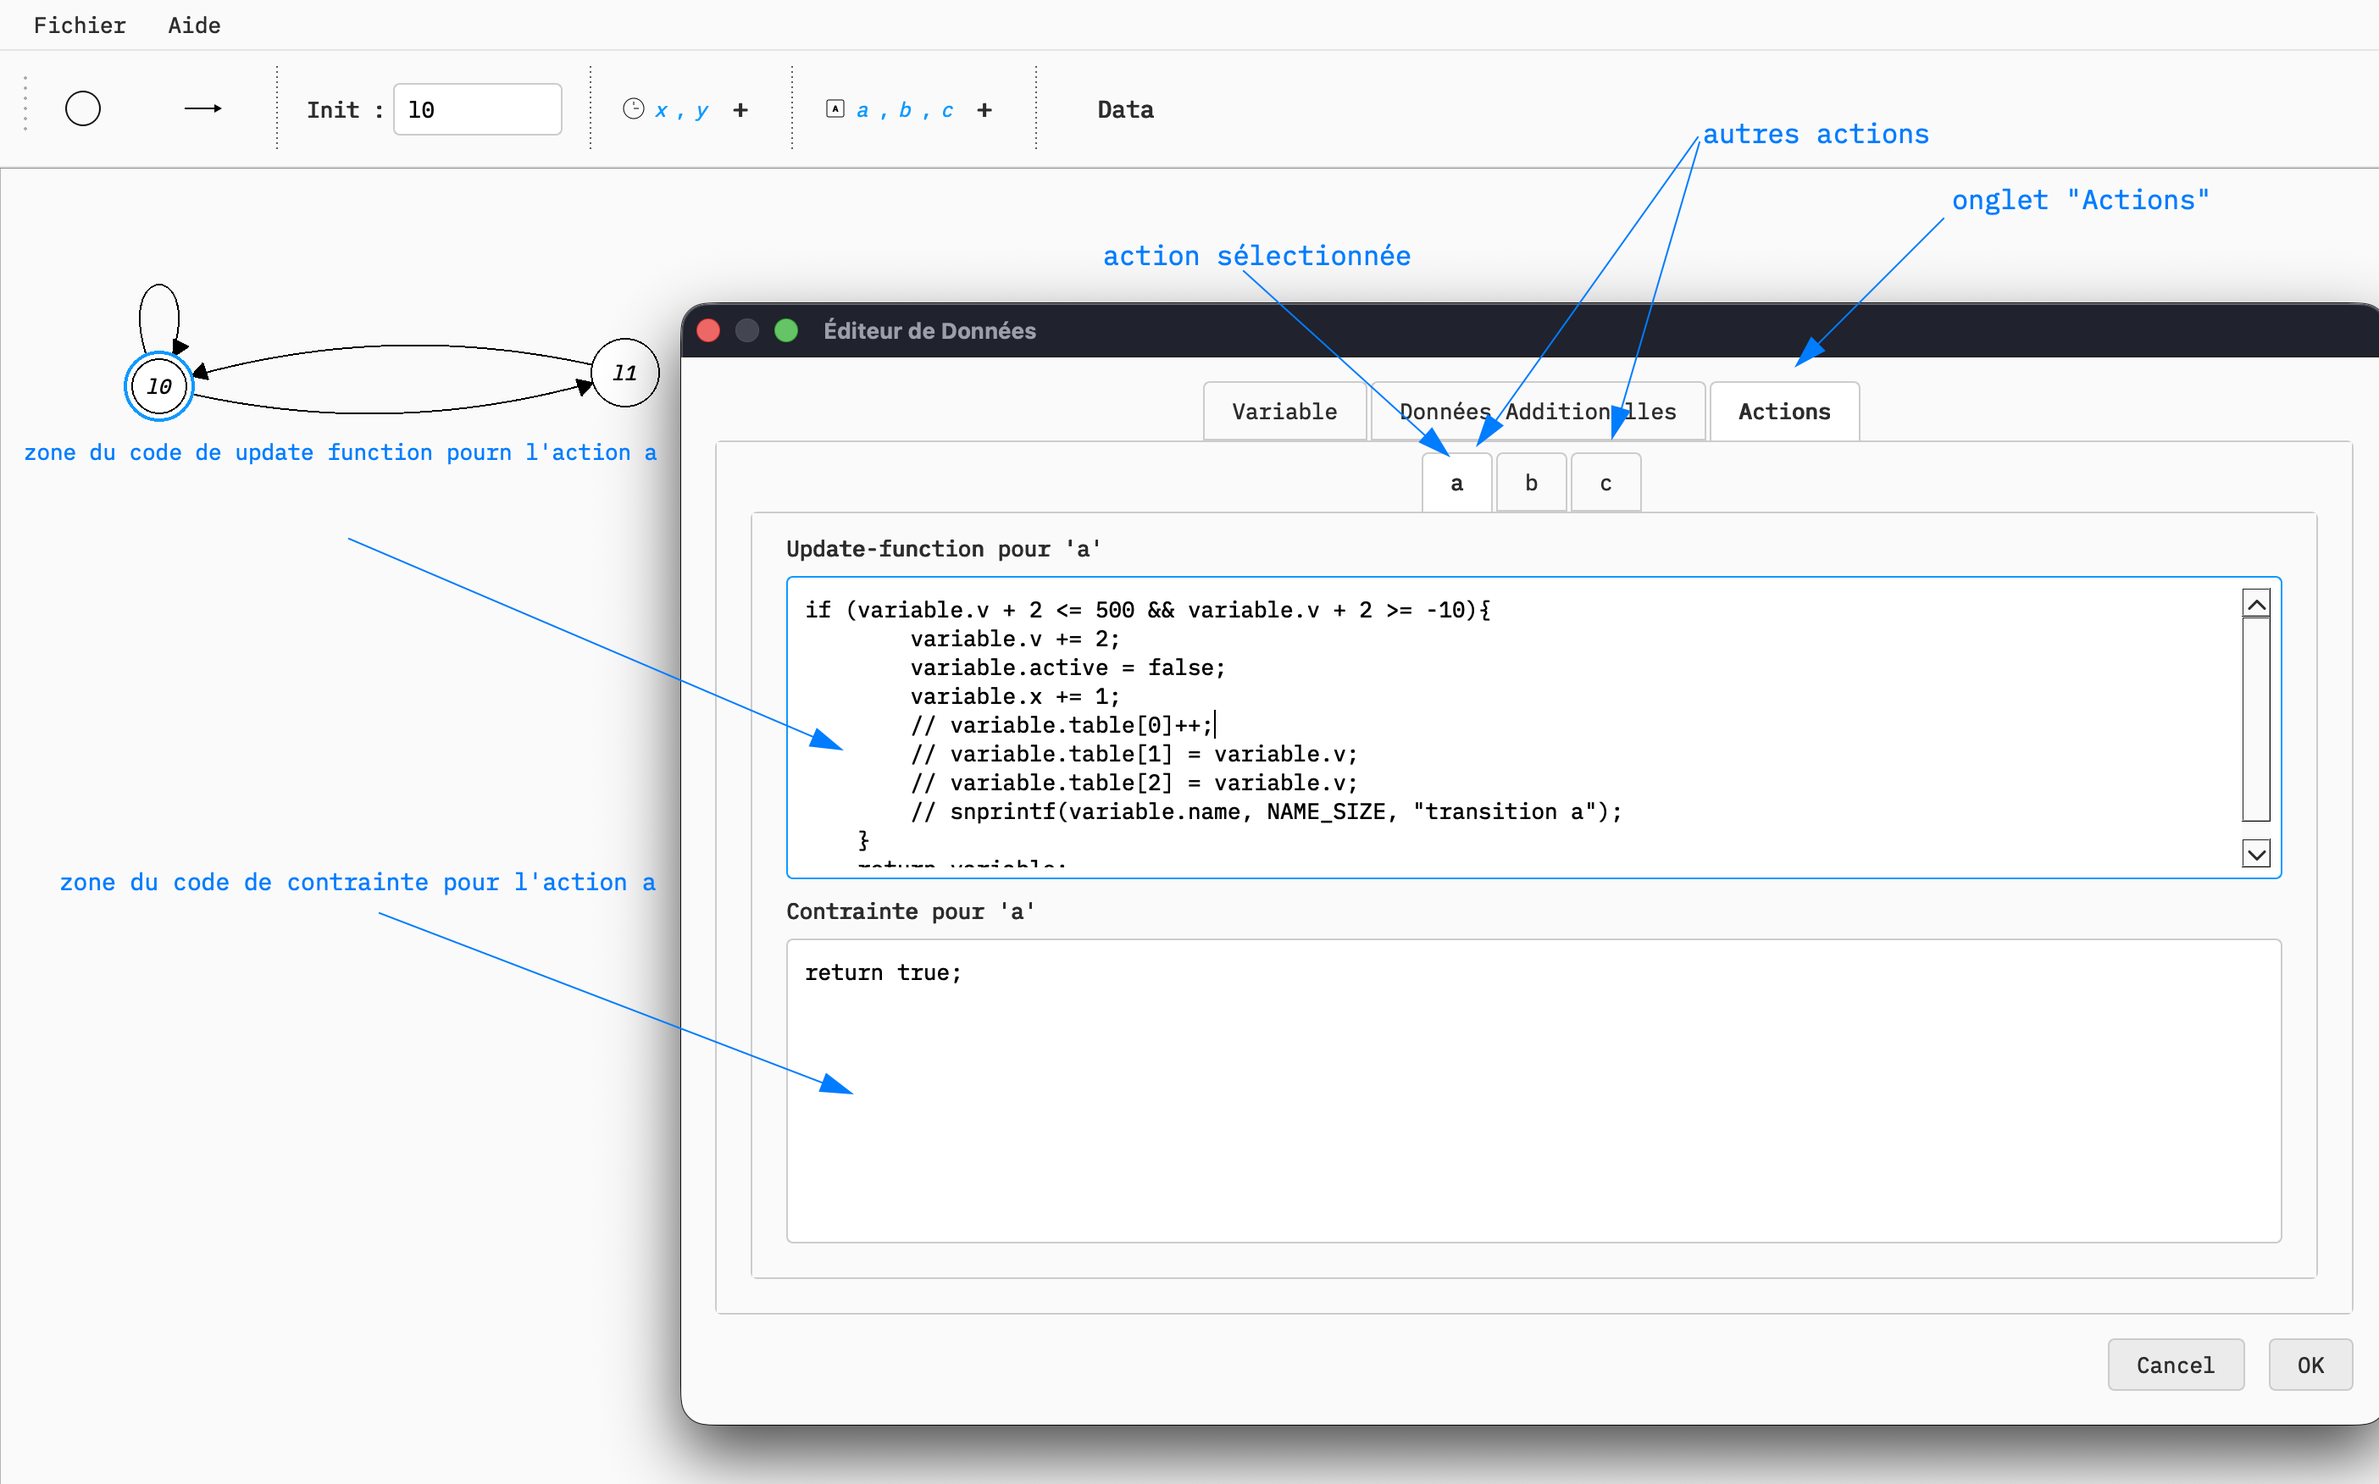
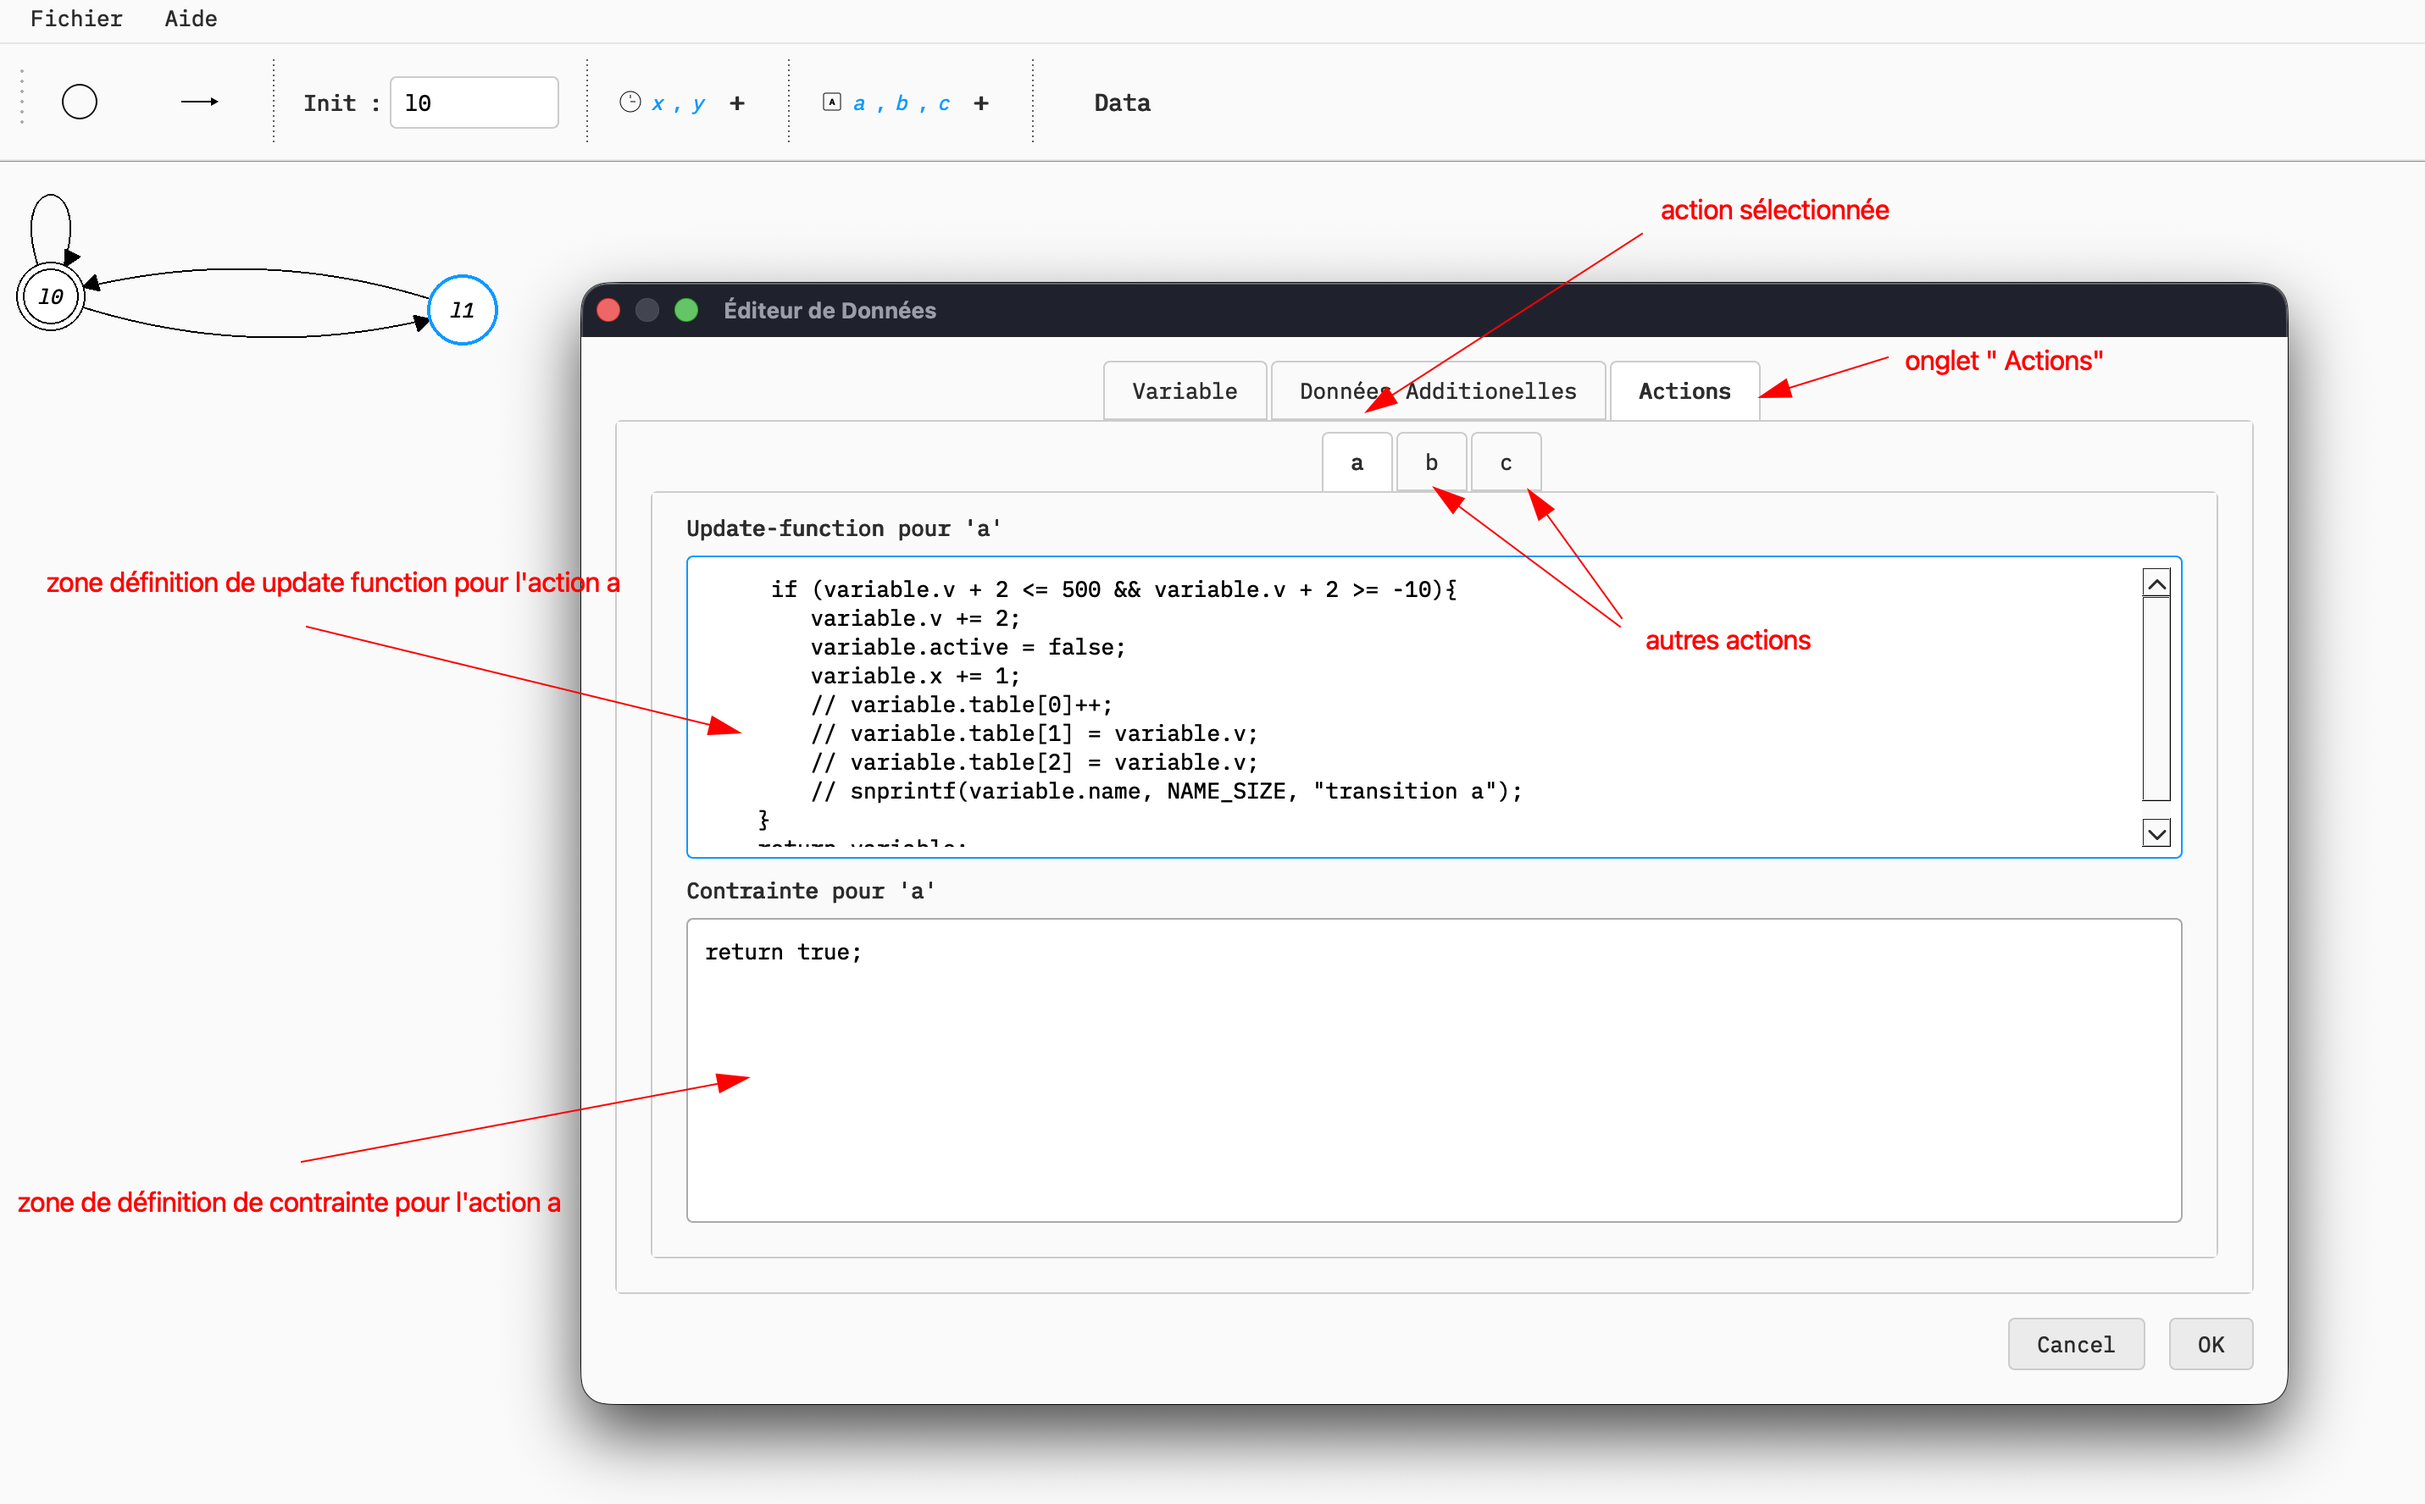
doc : screenshots added

diff --git a/View/window.py b/View/window.py
@@ -171,7 +171,7 @@ class MainWindow(QMainWindow):
         menu_fichier.addAction(action_save)
         
         menu_fichier.addSeparator()
-        menu_fichier.addAction(action_debug)
+        #menu_fichier.addAction(action_debug)
         menu_fichier.addSeparator()
         action_quit = QAction("Quitter", self)
         action_quit.setShortcut(QKeySequence.Quit)
@@ -397,7 +397,8 @@ class MainWindow(QMainWindow):
     def show_user_manual(self):
         dialog = QDialog(self)
         dialog.setWindowTitle("Guide d'utilisation")
-        dialog.resize(800, 650)
+        dialog.resize(super().width() * 0.8, super().height() * 0.8)  # Taille initiale de la fenêtre (70% de la taille du parent)
+        
         
         dialog.setStyleSheet("""
             QTextBrowser {
@@ -433,13 +434,17 @@ class MainWindow(QMainWindow):
             h3 { color: #2C2C2C; margin-top: 15px; }
             ul { margin-top: 5px; }
             li { margin-bottom: 8px; }
+            img {
+                max-width: 100%;
+                height: auto;
+            }
             .screenshot-placeholder { background-color: #EBEBEB; padding: 15px; border-left: 4px solid #AAAAAA; margin: 15px 0; color: #555555; font-style: italic; font-weight: bold; text-align: center;}
         </style>
 
         <h1>Guide d'Utilisation</h1>
         <p>Bienvenue dans l'éditeur graphique d'automates temporisés étendus par la donnée.</p>
         
-        <div align="center"><img src="docs/main-window.png" width="700"></div>
+        <p align="center"><img src="docs/main-window.png"></p>
 
         <h2>1. Modélisation Graphique & Propriétés</h2>
         
@@ -450,7 +455,7 @@ class MainWindow(QMainWindow):
             <li><b>Invariants :</b> Faites un <b>clic droit</b> sur la localité pour ouvrir le panneau latéral de propriétés. Choisissez l'horloge, l'opérateur (<=, >=, ==), puis choisissez de comparer avec une valeur constante ou une autre horloge. Cliquez sur le bouton <b>+</b> pour valider. Double-cliquez sur un invariant existant pour le modifier.</li>
             <li><b>Déplacement & Suppression :</b> Cliquez et glissez pour déplacer. Pour supprimer, faites un clic droit (qui ouvre le panneau latéral) puis cliquez sur le bouton rouge <b>Supprimer la localité</b>.</li>
         </ul>
-        <div align="center"><img src="docs/node.png" width="700" alt="Localité et Invariants"></div>
+        <p align="center"><img src="docs/node.png" alt="Localité et Invariants"></p>
 
         <h3>1.2. Les Transitions, Gardes et Actions</h3>
         <ul>
@@ -460,19 +465,19 @@ class MainWindow(QMainWindow):
             <li><b>Modification :</b> Réassignez facilement la source ou la cible via les menus déroulants en haut du panneau de propriétés.</li>
             <li><b>Annulation :</b> Appuyez sur la touche <b>Échap</b> pendant la création pour annuler.</li>
         </ul>
-        <div align="center"><img src="docs/transition.png" width="700" alt="Transition et Propriétés"></div>
+        <p align="center"><img src="docs/transition.png" alt="Transition et Propriétés"></p>
 
         <h2>2. Déclarations Globales (Barre d'outils)</h2>
         <p>Dans la barre d'outils, cliquez sur le petit bouton <b>+</b> à côté de l'icône Horloge ou Action pour afficher la popup de saisie. Renseignez le nom et appuyez sur Entrée. Un <b>clic droit</b> sur le nom déclaré permet de le renommer ou de le supprimer.</p>
-        <div align="center"><img src="docs/add-action.png" width="700" alt="Barre d'outils (Horloges et Actions)"></div>
-        <div align="center"><img src="docs/delete-action.png" width="700" alt="Barre d'outils (Horloges et Actions)"></div>
+        <p align="center"><img src="docs/add-action.png" alt="Barre d'outils (Horloges et Actions)"></p>
+        <p align="center"><img src="docs/delete-action.png"  alt="Barre d'outils (Horloges et Actions)"></p>
 
         <h2>3. L'Éditeur de Données Avancé (Bouton "Data")</h2>
         <p>Cliquez sur le bouton <b>Data</b> pour ouvrir la fenêtre de configuration étendue.</p>
         
         <h3>3.1. Variable et Initialisation</h3>
         <p>Dans le premier onglet, tapez librement vos déclarations de variables globales (ex: <i>int timer;</i>) et l'initialisation de l'automate (ex: <i>timer = 0;</i>).</p>
-        <div align="center"><img src="docs/data-variable.png" width="700" alt="Éditeur de données"></div>
+        <p align="center"><img src="docs/data-variable.png"  alt="Éditeur de données"></p>
 
         <h3>3.2. Données Additionnelles (Define, Alias & Structures)</h3>
         <p>Cet onglet centralise les définitions de types et macros C/C++ nécessaires à la logique de votre modèle :</p>
@@ -481,11 +486,37 @@ class MainWindow(QMainWindow):
             <li><b>Alias :</b> Cliquez sur le bouton <b>+</b> de la ligne Alias pour déclarer des équivalences de types (<i>typedef</i>) ou de valeurs. Entrez le nom (ex: <i>uint8</i>) puis sa définition dans le champ apparu.</li>
             <li><b>Structures :</b> Cliquez sur le <b>+</b> pour nommer et générer un nouveau bloc de définition de structure de données (<code>struct</code>). Vous pouvez ensuite y taper le code C/C++ définissant ses champs internes.</li>
         </ul>
-        <div align="center"><img src="docs/data-addi.png" width="700" alt="Éditeur de données"></div>
+        <p align="center"><img src="docs/data-addi.png" alt="Éditeur de données additionnelles"></p>
 
         <h3>3.3. Actions (Update-functions & Contraintes)</h3>
         <p>L'onglet "Actions" crée automatiquement un sous-onglet pour chaque action déclarée dans le projet. Vous pouvez y associer des fonctions de mise à jour spécifiques (Update-functions) et écrire des contraintes matricielles manuelles.</p>
-        <div align="center"><img src="docs/data-actions.png" width="700" alt="Actions Data Editor"></div>
+        <p align="center"><img src="docs/data-actions.png" width="70%" alt="Actions Data Editor"></p>
+
+        <h2>4. Menus et Raccourcis Clavier</h2>
+        
+        <h3>4.1. Menu Fichier</h3>
+        <p align="center"><img src="docs/menu-file.png" alt="Menu Fichier"></p>
+        
+        <ul>
+            <li><b>Nouveau (Ctrl+N / Cmd+N) :</b> Crée un nouveau modèle vierge.</li>
+            <li><b>Ouvrir (Ctrl+O / Cmd+O) :</b> Charge un modèle existant au format JSON.</li>
+            <li><b>Sauvegarder (Ctrl+S / Cmd+S) :</b> Enregistre votre modèle actuel au format JSON.</li>
+            <li><b>Quitter (Ctrl+Q / Cmd+Q) :</b> Ferme l'application.</li>
+        </ul>
+
+        <h3>4.2. Menu Aide</h3>
+        <p align="center"><img src="docs/menu-help.png" alt="Menu Aide"></p>
+
+        <ul>
+            <li><b>À propos :</b> Affiche une brève description de l'outil.</li>
+            <li><b>Manuel d'utilisation :</b> Ouvre ce guide d'utilisation.</li>
+        </ul>
+
+            <h3>4.3. Autres Actions</h3>
+            <ul>
+                <li><b>Échap :</b> Annule le mode de création en cours (utile si vous avez commencé à tracer une transition et souhaitez l'annuler).</li>
+                <li><b>Clic Droit :</b> Ouvre le panneau des propriétés de l'élément survolé (Localité ou Transition) ou annule l'outil de création en cours.</li>
+            </ul>
 
         """
         

diff --git a/README.md b/README.md
@@ -96,6 +96,6 @@ Les modèles sont exportés en JSON. Les contraintes saisies humainement (ex: `x
 |---|---|
 | **L'application ne démarre pas** | Vérifiez que le module `PySide6` est bien installé (`pip install -r requirements.txt`) et que votre version de Python est ≥ 3.10. |
 | **Impossible d'ajouter un nœud/flèche** | Vérifiez que l'outil correspondant est bien en surbrillance dans la barre d'outils en haut de la fenêtre. |
-| **Erreur lors du chargement JSON** | Assurez-vous que le fichier a été généré par cet outil. Les matrices DBM mal formées ou les fichiers altérés manuellement peuvent bloquer l'importation. |
+
 
 ---
